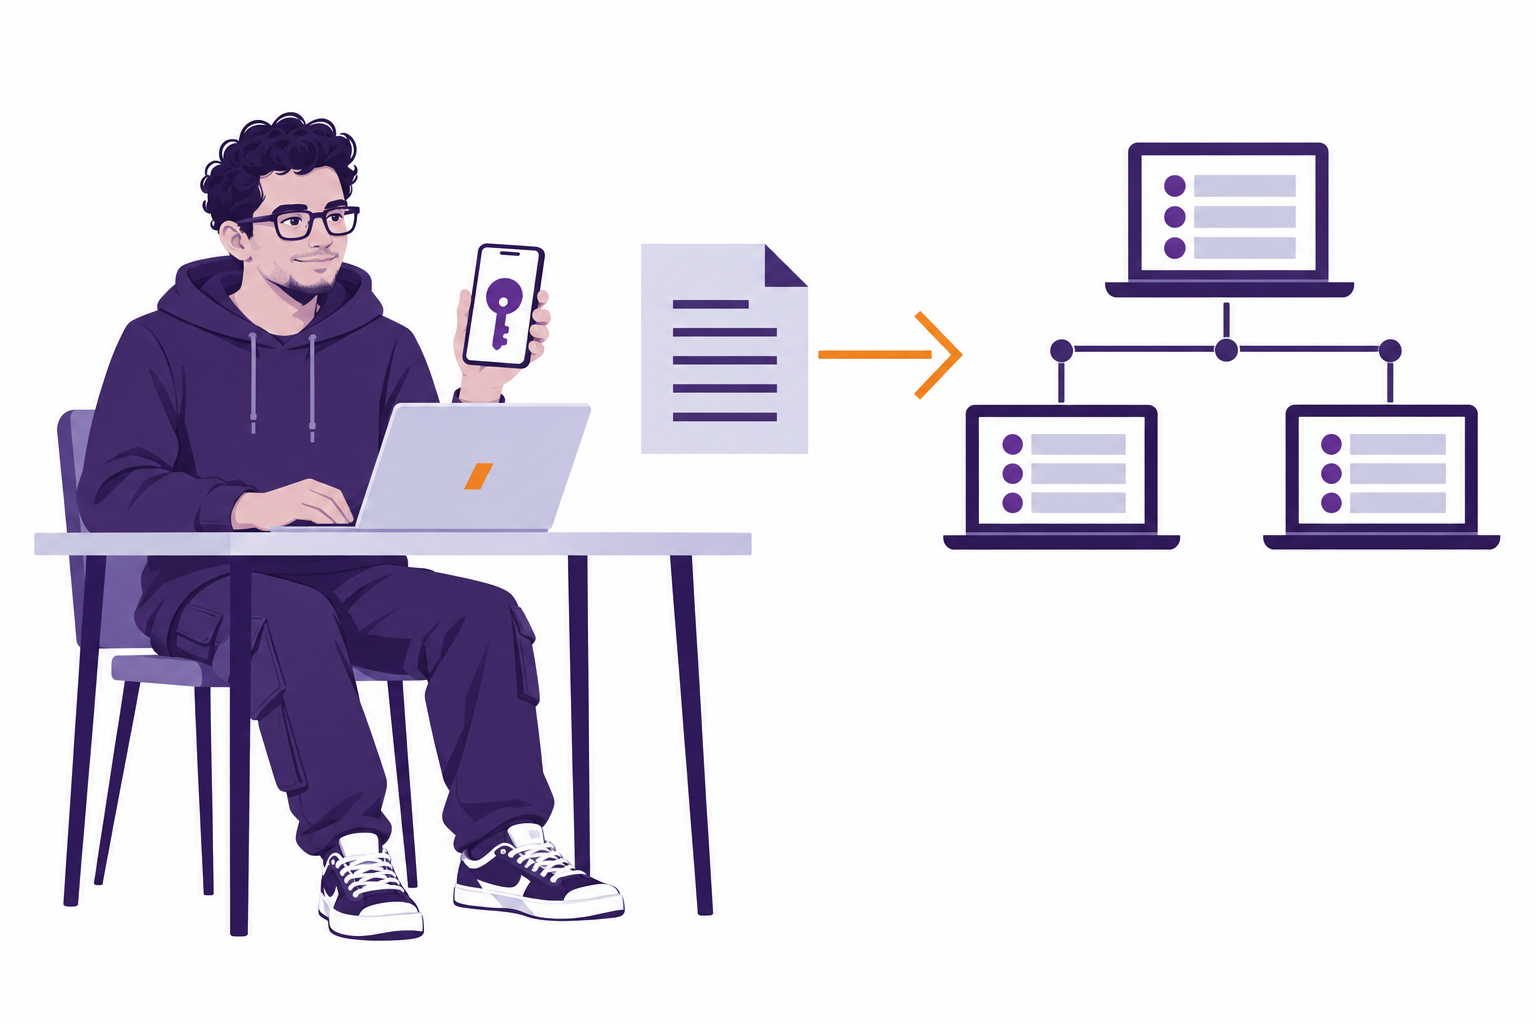
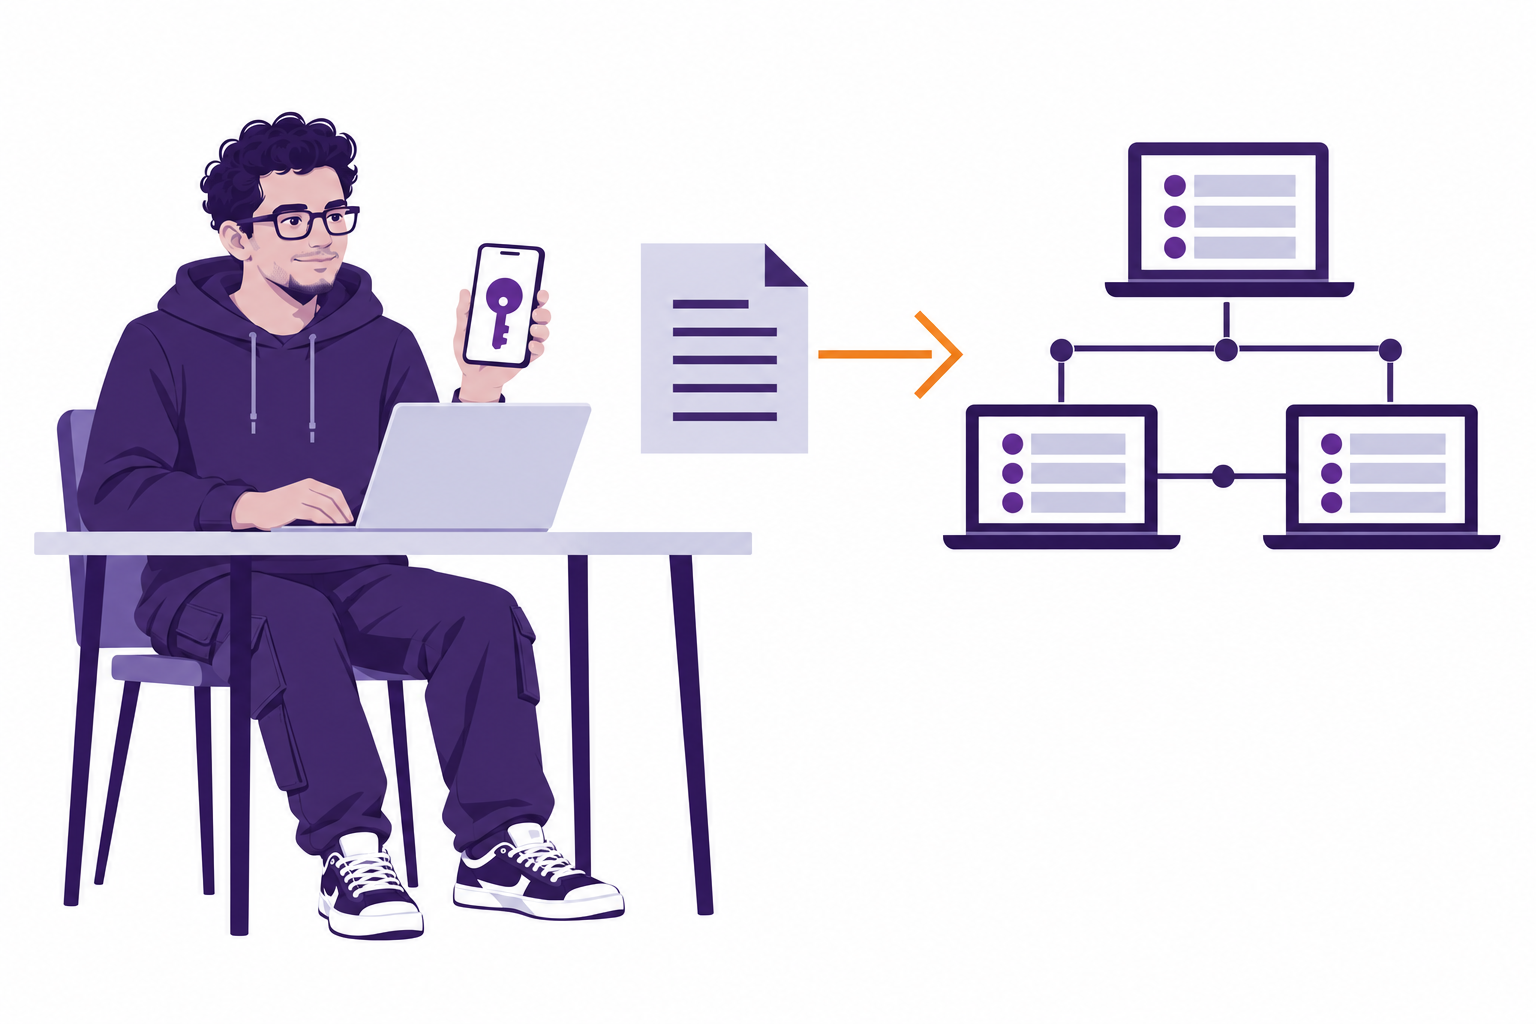
assets-EXTERNAL

diff --git a/assets/assets-list.md b/assets/assets-list.md
@@ -15,11 +15,13 @@ The Description column records whether an asset has a corresponding entry in [as
 
 ## 2026.10 release status
 
-The following assets are **POSTPONED** and will not be included in the 2026.10 Bitcoin Diploma release: `BD-V-001`, `BD-V-002`, `BD-V-003`, `BD-V-004`, `BD-V-005`, `BD-V-006`, `BD-V-007`, `BD-V-008`, `BD-V-014`, `BD-V-015`, `BD-V-020`, `BD-V-029`, `BD-V-040`, `BD-V-041`, `BD-V-049`, `BD-V-051`, `BD-V-057`, `BD-V-058`, and `BD-V-076`. Their description and guide-anchor records remain for a later reviewed release. The workflow columns below track file records only; `Created` does not mean the asset is included in 2026.10.
+The following assets are **POSTPONED** and will not be included in the 2026.10 Bitcoin Diploma release: `BD-V-002`, `BD-V-003`, `BD-V-004`, `BD-V-005`, `BD-V-006`, `BD-V-007`, `BD-V-008`, `BD-V-014`, `BD-V-015`, `BD-V-020`, `BD-V-029`, `BD-V-040`, `BD-V-041`, `BD-V-049`, `BD-V-051`, `BD-V-057`, and `BD-V-058`. Their description and guide-anchor records remain for a later reviewed release. The workflow columns below track file records only; `Created` does not mean the asset is included in 2026.10.
+
+`BD-V-001` and `BD-V-076` are **EXTERNAL — direct JPG upload through Sanity**. They are not postponed. Their generated production work is not applicable; add the approved `.jpg` files directly through Sanity. Upload completion is not recorded here.
 
 | Asset ID | Description | Brief | JSON reference | SVG/PNG reference | Uploaded to VM | MG package |
 |---|---|---|---|---|---|
-| BD-V-001 | Created | Not applicable — External Image; manually copy approved JPEG into the Diploma | Not applicable | Not applicable | Not applicable | Not applicable |
+| BD-V-001 | Created | Not applicable — EXTERNAL; add approved .jpg directly through Sanity | Not applicable | Not applicable | Not applicable | Not applicable |
 | BD-V-002 | Created | Created — `assets/briefs/bd-v-002-brief.md` | Not created | Not created | Not recorded | Not created |
 | BD-V-003 | Created | Created — `assets/briefs/bd-v-003-brief.md` | Not created | Not created | Not recorded | Not created |
 | BD-V-004 | Created | Created — `assets/briefs/bd-v-004-brief.md` | Not created | Not created | Not recorded | Not created |
@@ -94,7 +96,7 @@ The following assets are **POSTPONED** and will not be included in the 2026.10 B
 | BD-V-073 | Created | Created — `assets/briefs/bd-v-073-brief.md` | Not created | Blocked — Required canonical destination https://github.com/MyFirstBitcoin/mfb-curriculum could not be verified on 2026-10-08; web access failed. Do not generate an unverified QR. | Not recorded | Not created |
 | BD-V-074 | Created | Created — `assets/briefs/bd-v-074-brief.md` | Not created | Blocked — Index destination https://donate.myfirstbitcoin.org/ conflicts with current SG https://myfirstbitcoin.org/support-us; BD-V-074 marker is absent. Destination selection and successful live testing remain required. | Not recorded | Not created |
 | BD-V-075 | Not created | Created — `assets/briefs/bd-v-075-brief.md` | Not created | Blocked — Index explicitly says Do not produce for 2026.10. Future issuer-specific destination, privacy, correction/withdrawal rules, minimum data and governance approval are not supplied. | Not recorded | Not created |
-| BD-V-076 | Created | POSTPONED — not included in 2026.10; do not produce or place | Not applicable | Not applicable | Not applicable | Not applicable |
+| BD-V-076 | Created | Not applicable — EXTERNAL; add approved .jpg directly through Sanity | Not applicable | Not applicable | Not applicable | Not applicable |
 | BD-V-077 | Created | Created — `assets/briefs/bd-v-077-brief.md` | Not created | Blocked — Required live MFB Journey verification failed on 2026-10-08: https://journey.myfirstbitcoin.org/ was inaccessible. Stage names/order remain unverified. | Not recorded | Not created |
 | BD-V-078 | Created | Created — `assets/briefs/bd-v-078-brief.md` | Created — `assets/reference/bd-v-078-ref.json` | Created — `assets/reference/bd-v-078-ref.svg`; `assets/reference/bd-v-078-ref.png` | Not recorded | Not created |
 | BD-V-079 | Created | Created — `assets/briefs/bd-v-079-brief.md` | Not created | Blocked — Asset-index description ends at “Check every…” and assets/asset-description.md supplies no completion. The exact safety callout must be restored before production. | Not recorded | Not created |

diff --git a/assets/prompts/prompt-00-brief.md b/assets/prompts/prompt-00-brief.md
@@ -2,7 +2,7 @@
 
 ## Objective
 
-Create one complete, production-ready design brief for every non-postponed, pipeline-eligible `BD-V-###` asset in `workspace/08_assets.md`, in ascending **numeric** asset-ID order (`001`, `002`, …). Each brief translates the approved asset-index record into a precise instruction for later JSON-reference and production work; it does not create the visual itself. Do not create a brief for an `External Image`: it is copied from its approved external source and manually inserted into the Diploma.
+Create one complete, production-ready design brief for every non-postponed, pipeline-eligible `BD-V-###` asset in `workspace/08_assets.md`, in ascending **numeric** asset-ID order (`001`, `002`, …). Each brief translates the approved asset-index record into a precise instruction for later JSON-reference and production work; it does not create the visual itself. Do not create a brief for an asset of type `EXTERNAL`: its approved .jpg is added directly through Sanity.
 
 ## Postponed assets
 
@@ -23,11 +23,11 @@ Treat `workspace/08_assets.md` as the instructional authority. Style references 
 
 ## Scope and ordering
 
-1. Extract every non-postponed, pipeline-eligible asset row whose ID exactly matches `BD-V-###` from the visual index. Ignore section-heading rows, examples, and rows whose Type is `POSTPONED` or `External Image`.
+1. Extract every non-postponed, pipeline-eligible asset row whose ID exactly matches `BD-V-###` from the visual index. Ignore section-heading rows, examples, and rows whose Type is `POSTPONED` or `EXTERNAL`.
 2. Sort IDs by their three-digit number, not by visual-index position, guide section, filename order, or priority.
 3. Process one asset completely before beginning the next. Re-run safely: inspect the destination first and update an existing brief rather than creating a duplicate.
 4. Write each result to `assets/briefs/bd-v-###-brief.md`, using the lowercase, zero-padded ID. Create no per-asset folders or prompts.
-5. A deferred, conditional, supporting, or non-production pipeline-eligible asset still needs a brief unless its Type or Status is `POSTPONED`. State its status and its exact production restriction; never silently omit it. An `External Image` is not pipeline-eligible and must have no brief.
+5. A deferred, conditional, supporting, or non-production pipeline-eligible asset still needs a brief unless its Type or Status is `POSTPONED`. State its status and its exact production restriction; never silently omit it. An asset of type `EXTERNAL` is not pipeline-eligible and must have no brief.
 
 ## Required brief content
 
@@ -130,6 +130,6 @@ After writing and reviewing each brief:
 1. Verify the filename, H1 ID, source-row ID, and asset-list row match exactly.
 2. Update that asset’s `Brief` cell in `assets/assets-list.md` to `Created — \`assets/briefs/bd-v-###-brief.md\``. Replace only the brief-status text; preserve the row’s other workflow columns.
 3. Recalculate the `Design briefs: N created` total to equal the number of asset-list rows marked created with an existing matching brief file. Do not claim a file is created until it exists and passes the completion criteria.
-4. At batch end, confirm that every non-postponed, pipeline-eligible indexed ID has exactly one matching brief, there are no unlogged newly created briefs, the log paths exist, and the files were processed in numeric order. Report POSTPONED assets as skipped deferred records and External Images separately as manual insertions, not as deferred or blocked briefs.
+4. At batch end, confirm that every non-postponed, pipeline-eligible indexed ID has exactly one matching brief, there are no unlogged newly created briefs, the log paths exist, and the files were processed in numeric order. Report POSTPONED assets as skipped deferred records and EXTERNAL assets separately as direct JPG uploads through Sanity, not as deferred or blocked briefs.
 
 Do not modify `workspace/08_assets.md`, guide content, style sources, JSON references, generated images, VM status, or MG-package status while performing this task. If filesystem writes are unavailable, return the completed brief(s) and the exact `assets/assets-list.md` changes required, but do not claim they were saved.

diff --git a/assets/prompts/prompt-03-mg.md b/assets/prompts/prompt-03-mg.md
@@ -2,7 +2,7 @@
 
 ## Purpose
 
-Attach this file to every Claude Design request that turns a pipeline-eligible Bitcoin Diploma contract into a production asset. Each eligible asset receives an approved Codex-generated SVG reference, its matching PNG rendering, and its conformance report. Claude must create the editable, accessible source and upload-ready deliverables; it must not publish a reference image. An `External Image`, including `BD-V-001`, is outside this pipeline: copy its approved external JPEG into the Diploma manually, without a brief, AI reference, or Claude package. The current reference batch defers `BD-V-070` and `BD-V-075`; these prompts do not release deferred items.
+Attach this file to every Claude Design request that turns a pipeline-eligible Bitcoin Diploma contract into a production asset. Each eligible asset receives an approved Codex-generated SVG reference, its matching PNG rendering, and its conformance report. Claude must create the editable, accessible source and upload-ready deliverables; it must not publish a reference image. An asset of type `EXTERNAL`, including `BD-V-001` and `BD-V-076`, is outside this pipeline: add its approved .jpg directly through Sanity, without a brief, AI reference, or Claude package. These two assets are not postponed; generated production work is not applicable. The current reference batch defers `BD-V-070` and `BD-V-075`; these prompts do not release deferred items.
 
 ## Postponed assets
 
@@ -32,7 +32,7 @@ Every request supplies one complete row from [08_assets.md](08_assets.md). Claud
 | `ID` | Stable asset identifier. Use its lowercase form for the project directory and metadata; do not rename it. |
 | `Suggested by` | Provenance only. It is not a design instruction, factual source, or approval state. |
 | `Priority` | Planning importance (`Essential`, `Supporting`, or `Conditional`), not authorization to publish or lower review standards. A `Conditional` asset waits for its stated decision or verification. |
-| `Type` | Required visual family: a new structured comparison/template that keeps adjacent guide text (`Table (Standalone)`); a structured comparison/template that replaces an existing guide table (`Table (Replacement)`); relationship/process/map/timeline (`Diagram`); or illustration/source/interface representation (`Image`). `External Image` is outside this Claude pipeline and must be manually inserted from its approved external JPEG. |
+| `Type` | Required visual family: a new structured comparison/template that keeps adjacent guide text (`Table (Standalone)`); a structured comparison/template that replaces an existing guide table (`Table (Replacement)`); relationship/process/map/timeline (`Diagram`); or illustration/source/interface representation (`Image`). The `EXTERNAL` asset type is outside this Claude pipeline; add the approved .jpg directly through Sanity. |
 | `Page` and `Note` | Historic annotated-draft provenance. Do not use them as a current page layout, placement, or factual source. |
 | `Placement` | Authoritative intended insertion: the guide, exact heading, and before/after/replace instruction. Use it to choose `student-guide`, `educator-guide`, or `shared`; preserve all listed placements in metadata. |
 | `Line` | A one-based location snapshot only. Re-find the anchor through the named heading and nearby described text if it has shifted. |

diff --git a/assets/asset-description.md b/assets/asset-description.md
@@ -1,10 +1,10 @@
 # Bitcoin Diploma asset notes
 
 **## BD-V-001**
-**Type:** POSTPONED
-**Status:** POSTPONED
-**Purpose:** This asset has been postponed
-**Description:** This asset has been postponed
+**Type:** EXTERNAL
+**Status:** DIRECT SANITY UPLOAD
+**Purpose:** Provide the Creative Commons Attribution-ShareAlike 4.0 licence mark beside the written licence statement.
+**Description:** Add the approved .jpg directly through Sanity. Generated production work is not applicable; no brief, AI reference, or Claude package is required. This asset is not postponed.
 
 **## BD-V-002**
 **Type:** POSTPONED
@@ -13,10 +13,10 @@
 **Description:** This asset has been postponed
 
 **## BD-V-076**
-**Type:** POSTPONED
-**Status:** POSTPONED
-**Purpose:** This asset has been postponed
-**Description:** This asset has been postponed
+**Type:** EXTERNAL
+**Status:** DIRECT SANITY UPLOAD
+**Purpose:** Use the supplied JPG directly through Sanity; confirm its content and placement during publication.
+**Description:** Add the approved .jpg directly through Sanity. Generated production work is not applicable; no brief, AI reference, or Claude package is required. This asset is not postponed.
 
 **## BD-V-077**
 **Type:** Diagram

diff --git a/publish/mfb-bd-26.10/mfb-bd-sg-26.10.md b/publish/mfb-bd-26.10/mfb-bd-sg-26.10.md
@@ -11,10 +11,10 @@ The Bitcoin Diploma is an independent, open-source introduction to money and Bit
 This work is licensed under the Creative Commons Attribution-ShareAlike 4.0 International License unless stated otherwise. You may share and adapt it with attribution to My First Bitcoin, and you must use the same license for adaptations.
 
 <!-- VISUAL: BD-V-001
-TYPE: POSTPONED
-SANITY: Manually copy the approved external Creative Commons Attribution-ShareAlike 4.0 licence-mark JPEG here during Diploma production. Do not use the asset-generation or Claude pipeline.
+TYPE: EXTERNAL
+SANITY: Add the approved external Creative Commons Attribution-ShareAlike 4.0 licence-mark .jpg here directly through Sanity. Do not use the asset-generation or Claude pipeline.
 ALT: Creative Commons Attribution-ShareAlike 4.0 licence mark beside the written licence statement.
-STATUS: POSTPONED — retain this anchor; do not include this asset in the 2026.10 Diploma release.
+STATUS: DIRECT SANITY UPLOAD — generated production work is not applicable; add the approved .jpg during publication.
 -->
 
 ---

diff --git a/assets/prompts/prompt-03-original.md b/assets/prompts/prompt-03-original.md
@@ -1,6 +1,6 @@
 Build a My First Bitcoin Diploma micrographic.
 
-This prompt does not apply to an `External Image`. An External Image is copied from its approved external source and manually inserted into the Diploma; do not create a micrographic, editable source, or package for it.
+This prompt does not apply to an asset of type `EXTERNAL`. An EXTERNAL asset has its approved .jpg added directly through Sanity; do not create a micrographic, editable source, or package for it.
 
 ## Postponed assets
 

diff --git a/assets/prompts/prompt-02-svg-png.md b/assets/prompts/prompt-02-svg-png.md
@@ -1,6 +1,6 @@
 # SVG and PNG reference-image prompt
 
-This prompt applies only to pipeline-eligible assets. Do not create SVG or PNG references for an `External Image`; it is copied from its approved external source and manually inserted into the Diploma.
+This prompt applies only to pipeline-eligible assets. Do not create SVG or PNG references for an asset of type `EXTERNAL`; its approved .jpg is added directly through Sanity.
 
 ## Postponed assets
 

diff --git a/assets/prompts/prompt-01-json.md b/assets/prompts/prompt-01-json.md
@@ -1,6 +1,6 @@
 # Asset JSON-reference contract
 
-This contract applies only to pipeline-eligible assets. Do not create a JSON reference for an `External Image`; it is copied from its approved external source and manually inserted into the Diploma.
+This contract applies only to pipeline-eligible assets. Do not create a JSON reference for an asset of type `EXTERNAL`; its approved .jpg is added directly through Sanity.
 
 ## Postponed assets
 
